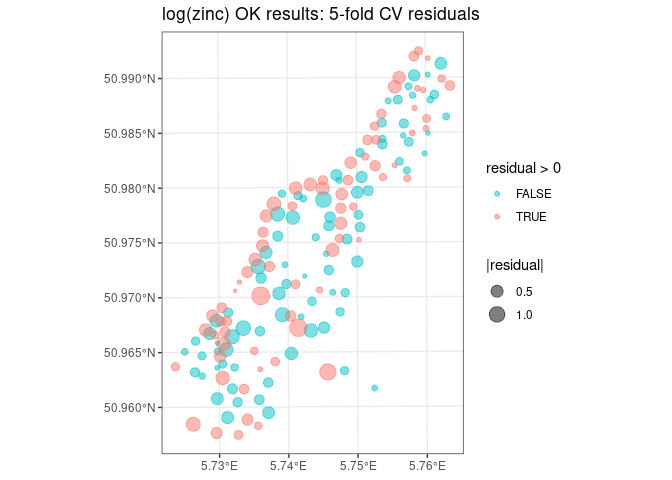
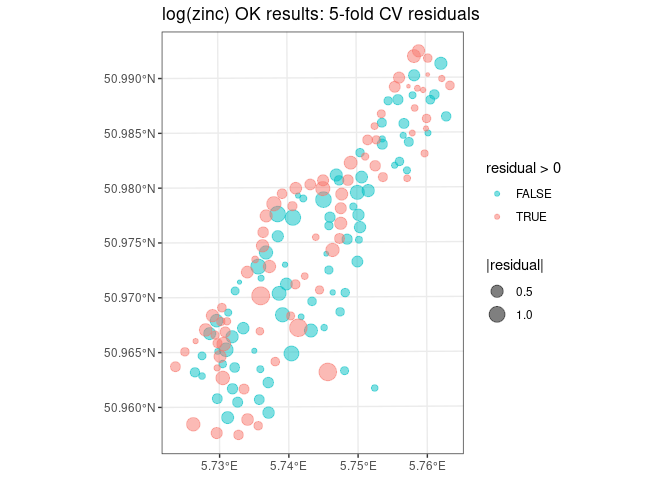
Updated for use of httr::GET().

diff --git a/demos/geo/Week8LabGeostatistics.md b/demos/geo/Week8LabGeostatistics.md
@@ -1059,9 +1059,9 @@ Table: Summary of kriging cross-validation results for log(zinc).
 
 |Description                 |   RMSE| MSE_based_R2|
 |:---------------------------|------:|------------:|
-|OK: 5-fold CV               | 0.4026|       0.6869|
+|OK: 5-fold CV               | 0.4102|       0.6751|
 |OK: LOO CV                  | 0.3869|       0.7109|
-|UK on sqrt(dist): 5-fold CV | 0.3917|       0.7036|
+|UK on sqrt(dist): 5-fold CV | 0.4020|       0.6878|
 |UK on sqrt(dist): LOO CV    | 0.3829|       0.7169|
 
 
@@ -1255,20 +1255,25 @@ la_grid
 # we do not want to predict there.
 
 # specify url for a zip file for access to a shapefile
-#url <- "https://www.naturalearthdata.com/http//www.naturalearthdata.com/download/10m/physical/ne_10m_land.zip"
-# The above URL is not working in R due to a redirect and a check for "referer".
-# bash$ curl --referer 'https://www.naturalearthdata.com' --verbose -LO $URL
-# So the URL below is the redirected URL.
-url <- 'https://naciscdn.org/naturalearth/10m/physical/ne_10m_land.zip'
+url <- "https://www.naturalearthdata.com/http//www.naturalearthdata.com/download/10m/physical/ne_10m_land.zip"
 
 # download zip file
-# note: if on Windows, the argument `mode = "wb"` (Windows binary) must be added
-# to the `download.file()` function.
 if (!file.exists(file.path('Datasets','ne_10m_land.zip'))){
-  download.file(url = url, 
-                destfile = file.path('Datasets','ne_10m_land.zip'))
+  GET(url, add_headers(referer = "https://www.naturalearthdata.com"), 
+      write_disk(file.path('Datasets','ne_10m_land.zip'), overwrite = TRUE))
 }
+```
 
+```
+## Response [https://naciscdn.org/naturalearth/10m/physical/ne_10m_land.zip]
+##   Date: 2021-05-03 20:18
+##   Status: 200
+##   Content-Type: application/zip
+##   Size: 3.02 MB
+## <ON DISK>  Datasets/ne_10m_land.zip
+```
+
+```r
 # unzip file
 if (!file.exists(file.path('Datasets','ne_10m_land','ne_10m_land.shp'))){
   unzip(file.path('Datasets','ne_10m_land.zip'), 
@@ -1908,9 +1913,9 @@ sessionInfo()
 ##  [5] scales_1.1.1      funModeling_1.9.4 Hmisc_4.5-0       Formula_1.2-4    
 ##  [9] survival_3.1-8    lattice_0.20-40   gstat_2.0-7       stars_0.5-2      
 ## [13] sf_0.9-8          abind_1.4-5       ggmap_3.0.0       maps_3.3.0       
-## [17] knitr_1.31        forcats_0.5.1     stringr_1.4.0     dplyr_1.0.5      
-## [21] purrr_0.3.4       readr_1.4.0       tidyr_1.1.3       tibble_3.1.0     
-## [25] ggplot2_3.3.3     tidyverse_1.3.0   pacman_0.5.1     
+## [17] httr_1.4.2        knitr_1.31        forcats_0.5.1     stringr_1.4.0    
+## [21] dplyr_1.0.5       purrr_0.3.4       readr_1.4.0       tidyr_1.1.3      
+## [25] tibble_3.1.0      ggplot2_3.3.3     tidyverse_1.3.0   pacman_0.5.1     
 ## 
 ## loaded via a namespace (and not attached):
 ##  [1] colorspace_2.0-0    rjson_0.2.20        ellipsis_0.3.1     
@@ -1920,31 +1925,30 @@ sessionInfo()
 ## [13] xml2_1.3.2          splines_3.6.3       jsonlite_1.7.2     
 ## [16] entropy_1.2.1       broom_0.7.5         cluster_2.1.0      
 ## [19] dbplyr_2.1.0        png_0.1-7           compiler_3.6.3     
-## [22] httr_1.4.2          backports_1.2.1     assertthat_0.2.1   
-## [25] Matrix_1.2-18       lazyeval_0.2.2      cli_2.3.1          
-## [28] htmltools_0.5.1.1   tools_3.6.3         gtable_0.3.0       
-## [31] glue_1.4.2          reshape2_1.4.4      Rcpp_1.0.6         
-## [34] cellranger_1.1.0    vctrs_0.3.7         nlme_3.1-144       
-## [37] lwgeom_0.2-5        xfun_0.22           rvest_1.0.0        
-## [40] lifecycle_1.0.0     zoo_1.8-9           hms_1.0.0          
-## [43] parallel_3.6.3      RColorBrewer_1.1-2  curl_4.3           
-## [46] yaml_2.2.1          gridExtra_2.3       pander_0.6.3       
-## [49] rpart_4.1-15        latticeExtra_0.6-29 stringi_1.5.3      
-## [52] highr_0.8           e1071_1.7-6         checkmate_2.0.0    
-## [55] intervals_0.15.2    RgoogleMaps_1.4.5.3 rlang_0.4.10       
-## [58] pkgconfig_2.0.3     moments_0.14        bitops_1.0-6       
-## [61] evaluate_0.14       ROCR_1.0-11         labeling_0.4.2     
-## [64] htmlwidgets_1.5.3   tidyselect_1.1.0    plyr_1.8.6         
-## [67] magrittr_2.0.1      R6_2.5.0            generics_0.1.0     
-## [70] DBI_1.1.1           mgcv_1.8-31         pillar_1.5.1       
-## [73] haven_2.3.1         foreign_0.8-75      withr_2.4.1        
-## [76] units_0.7-1         xts_0.12.1          nnet_7.3-13        
-## [79] spacetime_1.2-4     modelr_0.1.8        crayon_1.4.1       
-## [82] KernSmooth_2.23-16  utf8_1.2.1          rmarkdown_2.7      
-## [85] jpeg_0.1-8.1        isoband_0.2.4       grid_3.6.3         
-## [88] readxl_1.3.1        data.table_1.14.0   FNN_1.1.3          
-## [91] reprex_1.0.0        digest_0.6.27       classInt_0.4-3     
-## [94] munsell_0.5.0
+## [22] backports_1.2.1     assertthat_0.2.1    Matrix_1.2-18      
+## [25] lazyeval_0.2.2      cli_2.3.1           htmltools_0.5.1.1  
+## [28] tools_3.6.3         gtable_0.3.0        glue_1.4.2         
+## [31] reshape2_1.4.4      Rcpp_1.0.6          cellranger_1.1.0   
+## [34] vctrs_0.3.7         nlme_3.1-144        lwgeom_0.2-5       
+## [37] xfun_0.22           rvest_1.0.0         lifecycle_1.0.0    
+## [40] zoo_1.8-9           hms_1.0.0           parallel_3.6.3     
+## [43] RColorBrewer_1.1-2  curl_4.3            yaml_2.2.1         
+## [46] gridExtra_2.3       pander_0.6.3        rpart_4.1-15       
+## [49] latticeExtra_0.6-29 stringi_1.5.3       highr_0.8          
+## [52] e1071_1.7-6         checkmate_2.0.0     intervals_0.15.2   
+## [55] RgoogleMaps_1.4.5.3 rlang_0.4.10        pkgconfig_2.0.3    
+## [58] moments_0.14        bitops_1.0-6        evaluate_0.14      
+## [61] ROCR_1.0-11         labeling_0.4.2      htmlwidgets_1.5.3  
+## [64] tidyselect_1.1.0    plyr_1.8.6          magrittr_2.0.1     
+## [67] R6_2.5.0            generics_0.1.0      DBI_1.1.1          
+## [70] mgcv_1.8-31         pillar_1.5.1        haven_2.3.1        
+## [73] foreign_0.8-75      withr_2.4.1         units_0.7-1        
+## [76] xts_0.12.1          nnet_7.3-13         spacetime_1.2-4    
+## [79] modelr_0.1.8        crayon_1.4.1        KernSmooth_2.23-16 
+## [82] utf8_1.2.1          rmarkdown_2.7       jpeg_0.1-8.1       
+## [85] isoband_0.2.4       grid_3.6.3          readxl_1.3.1       
+## [88] data.table_1.14.0   FNN_1.1.3           reprex_1.0.0       
+## [91] digest_0.6.27       classInt_0.4-3      munsell_0.5.0
 ```
 
 ## Embedded code
@@ -1983,6 +1987,7 @@ if (!require("pacman")) {install.packages("pacman", repos = my_repo)}
   # ggplot2: part of tidyverse
   # readr: file reading
   # dplyr: data wrangling
+  # httr: downloading files from the web
   # Hmisc:  describe
   # gstat:  for kriging
   # maps: for maps
@@ -1998,7 +2003,7 @@ if (!require("pacman")) {install.packages("pacman", repos = my_repo)}
   # sp: spatial data methods -- will eventually be superseded by `sf`
   # rgdal:  projections, coordinate systems
   # downloader: download files over HTTP and HTTPS
-pacman::p_load(tidyverse, knitr, dplyr, purrr, maps, ggmap, stars, gstat,
+pacman::p_load(tidyverse, knitr, dplyr, httr, purrr, maps, ggmap, stars, gstat,
                funModeling, Hmisc, scales, akima, sp, rgdal, downloader, sf)
 
 # Note: this lab will only knit if the latest version of ggmap is installed.  
@@ -2412,18 +2417,12 @@ la_grid
 # we do not want to predict there.
 
 # specify url for a zip file for access to a shapefile
-#url <- "https://www.naturalearthdata.com/http//www.naturalearthdata.com/download/10m/physical/ne_10m_land.zip"
-# The above URL is not working in R due to a redirect and a check for "referer".
-# bash$ curl --referer 'https://www.naturalearthdata.com' --verbose -LO $URL
-# So the URL below is the redirected URL.
-url <- 'https://naciscdn.org/naturalearth/10m/physical/ne_10m_land.zip'
+url <- "https://www.naturalearthdata.com/http//www.naturalearthdata.com/download/10m/physical/ne_10m_land.zip"
 
 # download zip file
-# note: if on Windows, the argument `mode = "wb"` (Windows binary) must be added
-# to the `download.file()` function.
 if (!file.exists(file.path('Datasets','ne_10m_land.zip'))){
-  download.file(url = url, 
-                destfile = file.path('Datasets','ne_10m_land.zip'))
+  GET(url, add_headers(referer = "https://www.naturalearthdata.com"), 
+      write_disk(file.path('Datasets','ne_10m_land.zip'), overwrite = TRUE))
 }
 
 # unzip file
@@ -2749,7 +2748,7 @@ lapply(c(lsf.str()), getAnywhere)
 ##   ggtitle(plot_title) +
 ##   theme_bw()
 ## }
-## <bytecode: 0x560aedf94f80>
+## <bytecode: 0x55ad659fac88>
 ## 
 ## [[2]]
 ## A single object matching 'krige.cv.stats' was found
@@ -2774,7 +2773,7 @@ lapply(c(lsf.str()), getAnywhere)
 ##          RMSE = round(sqrt(MSE_pred), 4), 
 ##          MSE_based_R2 = round(max(1 - MSE_pred/MSE_obs, 0), 4) )
 ## }
-## <bytecode: 0x560af0739e70>
+## <bytecode: 0x55ad690ae8d0>
 ## 
 ## [[3]]
 ## A single object matching 'krige.cv2' was found
@@ -2793,7 +2792,7 @@ lapply(c(lsf.str()), getAnywhere)
 ##   if (is.na(st_crs(krige.cv1))) {st_crs(krige.cv1) <- st_crs(locations)}
 ##   return(krige.cv1)
 ## }
-## <bytecode: 0x560af4eb0f58>
+## <bytecode: 0x55ad6c8698f0>
 ```
 
 
